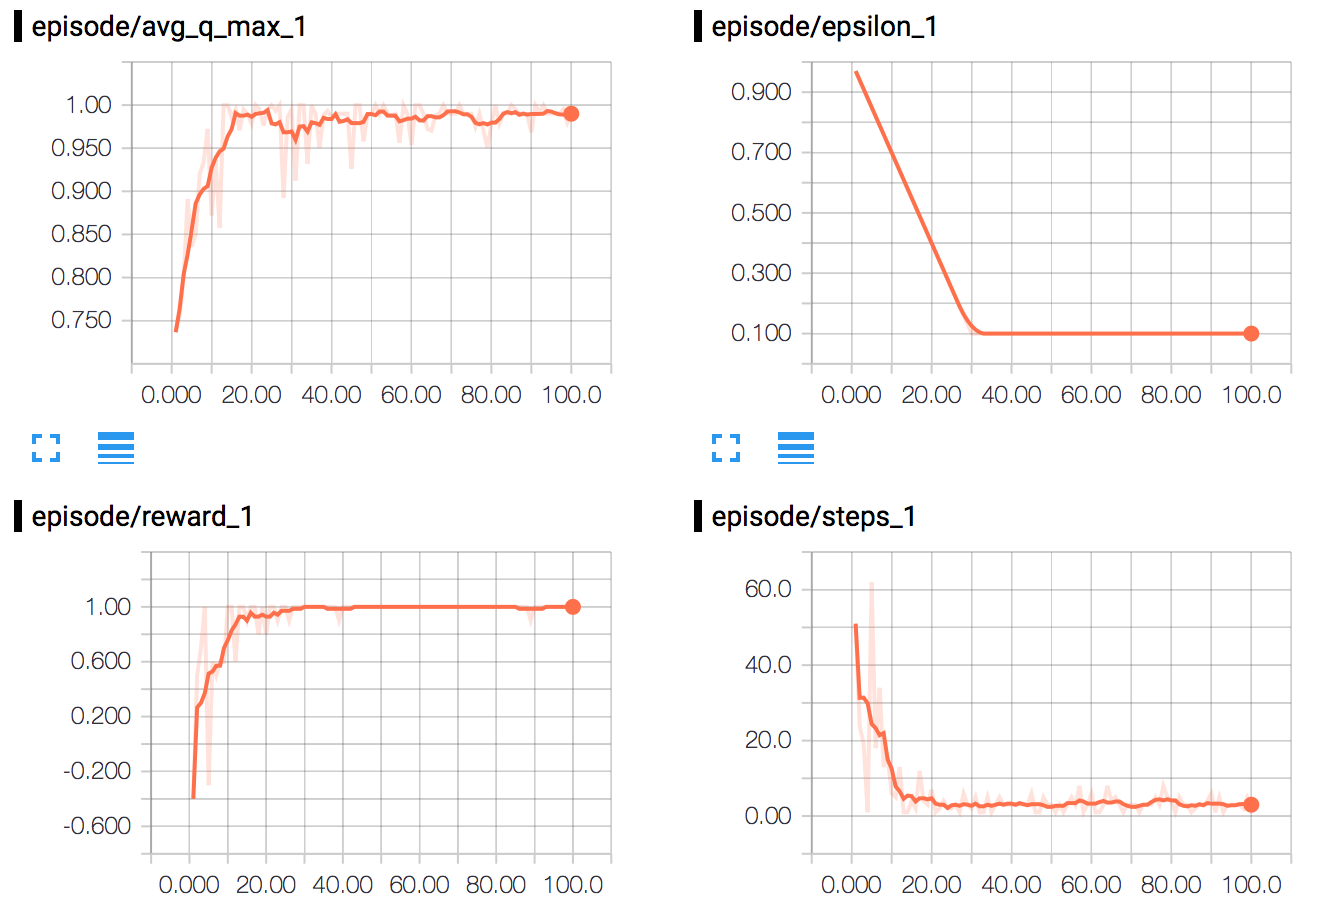
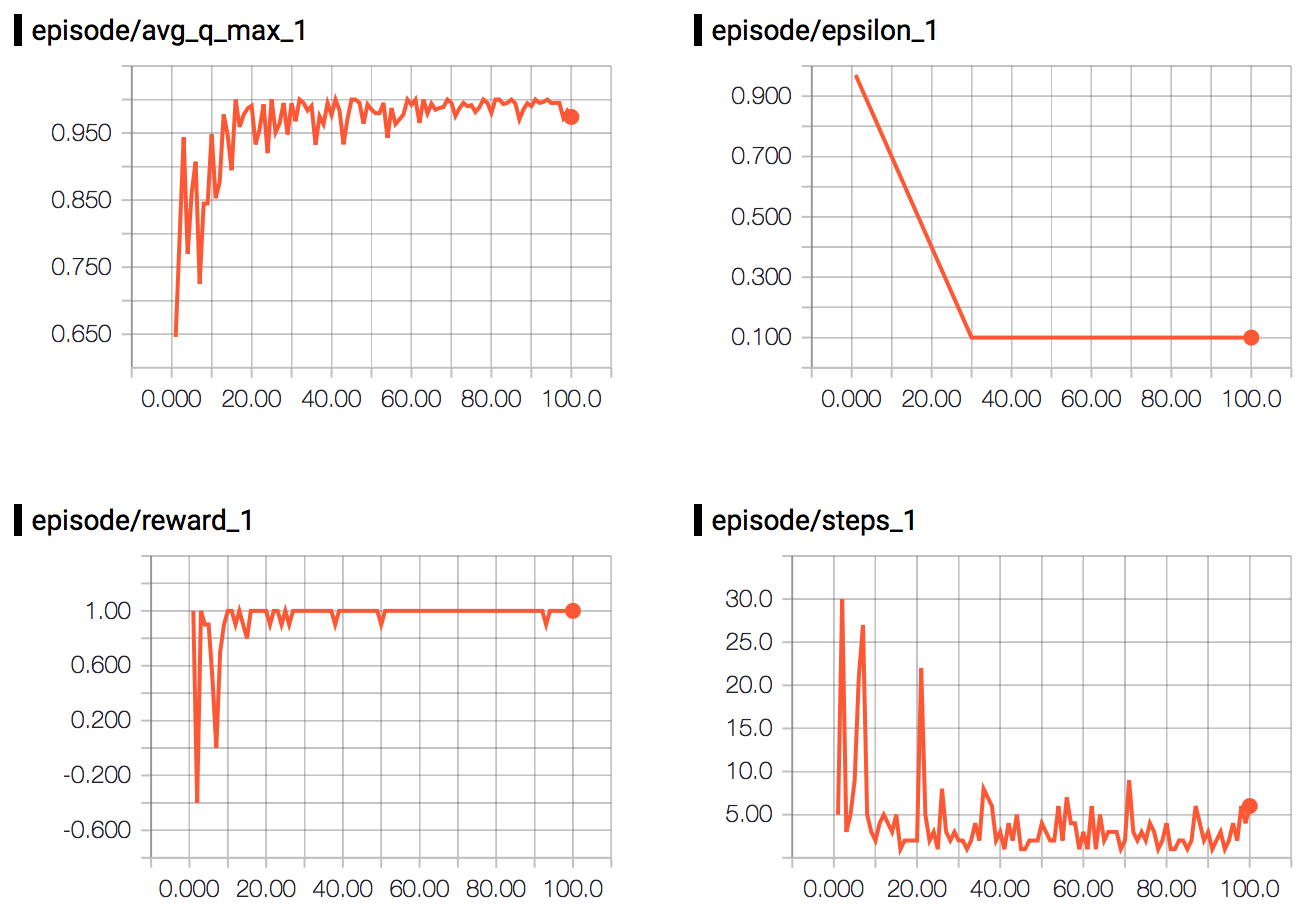
Update q-gridworld and nn-gridworld readmes

diff --git a/experiments/nn-gridworld/README.md b/experiments/nn-gridworld/README.md
@@ -3,9 +3,9 @@
   <img src="../../images/graphs/nn-graph.png", width="50%"/>
 </p>
 
-In comparison to the previous [Q-Gridworld](../q-gridworld) experiment, this experiment attempts to solve [Gridworld](../games/gridworld.py) using a Neural Network to estimate the Q-values instead of storing them in a table.
+In comparison to the [Q-Gridworld](../q-gridworld) experiment, we're now going train an agent to play [Gridworld](../games/gridworld.py) by utilizing a Neural Network instead of storing all Q-values in a table. By sending the state of the game as an input, the network will be trained to estimate the Q-values of that state.
 
-The state of the game is defined as three matricies of the field (```3 x [field_size, field_size]```) - one with the position of the actor, one with the position of the pit and one with the position of the goal.
+The state of the game is defined as three zero-filled matricies of the field (```3 x [field_size, field_size]```) where the coordinate of the actor, pit and the goal is marked by setting that element of the matrix to 1.
 
 At each step, the flattened state ```s``` (defined as a single row of size ```3 * field_size * field_size```) is fed into the Neural Network. The network then outputs a row of Q-values, each representing the values of the actions in the state ```s```. The  agent then performs an action according to its policy  ```π(s) = max(Q(s,a))``` or another random action given the exploration rate ```ε```.
 
@@ -14,20 +14,36 @@ Once the agent has taken its action, the Q-values of the next state ```s'``` are
 ## Network 
 
 The network in this experiment has two fixed hidden layers, but with customizable number of neurons in each hidden layers.
+Given the variables ```input_size``` and ```action_size```, the network structure can be described as:
 
-```
-input_size = 3*field_size*field_size
-action_size = 4 (up, down, left, right)
-```
+* ```input_size = 3 * field_size * field_size```
+* ```action_size = 4 (up, down, left, right)```
 
-| Input          | Hidden L1|Hidden L2   | Output          |
+<center>
+
+| Input          | Hidden L1| Hidden L2  | Output          |
 |----------------|----------|------------|-----------------|
-|```input_size```| 80 [C]   |80 [C]      |```action_size```|
+|```input_size```| 80 [c]   | 80 [c]     |```action_size```|
 
-[C] - Customizable
+</center>
+[c] - Customizable
 
 
 ## Performance
 
+<p align="center">
+  <img src="../../images/plots/nn-gridworld-plot.png", width="70%"/>
+</p>
+
+The plots above show the agents training progress running with all parameters set to their default values.
+As you can see in the plot, it took the agent around 300 episodes before it started learning, and around 500 and beyond really got the gist of it. The result of running 100 test runs with the fully trained agent can be seen in the table below.
+
+<center>
+
+|            | Average  |Max  | Min |
+|------------|----------|-----|-----|
+| **Steps**  | 3.26	    | 12  | 1   |
+| **Rewards**| 0.42     | 1   | 0.08|
 
 
+</center>

diff --git a/experiments/q-gridworld/README.md b/experiments/q-gridworld/README.md
@@ -2,19 +2,60 @@
 
 The purpose of this experiment is to show how a basic implementation of [Gridworld](../games/gridworld.py) could be solved with Q-Learning by storing and using all Q-values, _Q(s,a)_, in a table.
 
-For a nonterminal state, it uses the update function:
-``` 
-Q(s,a) ⟵ Q(s,a) + η(r + ɣmax(Q(s',a') - Q(s,a))
+With the available actions (```up, down, right, left```), the table of Q-value has the shape:
+
+<center>
+
 ```
-And for a terminal state:
-``` 
-Q(s,a) ⟵ r
+[[a_0,    a_1,    a_2,    a_3],      # s_0
+ [a_0,    a_1,    a_2,    a_3],      # s_1
+ [a_0,    a_1,    a_2,    a_3],      # s_2
+             ...                      ...
+ [a_0,    a_1,    a_2,    a_3]]      # s_n
 ```
 
-You'll notice when you play around with the parameters (more specifically the field size) that it will take longer and longer for the agent to perform be able to perform well. In these cases, it might be smart to move away from having to keep all the states and Q-values in the memory and approach this problem from a different angle. 
+</center>
 
-How about using a Neural Network? Take a look at [this example](../nn-gridworld)!
-## Plot
+Every time the agent performs an action and transitions from one state to another, the Q-value for the previous state and action taken will be updated using two different update functions depending on if it is a nonterminal (1) or a terminal (2) state.
+
+1. ``` Q(s,a) ⟵ Q(s,a) + η(r + ɣmax(Q(s',a') - Q(s,a)) ```. 
+2. ``` Q(s,a) ⟵ r```
+
+### Reward Function
+The agent can receive three different rewards.
+
+* ```+1``` for reaching the goal.
+* ```-1``` for reaching the pit.
+* ```-0.1``` for walking against the edges of the field (thus performing an action that doesn't move the agent).
+
+### Terminal states
+There are two different terminal states available.
+
+* Reaching the goal.
+* Reaching the pit.
+
+
+## Performance
 <p align="center">
   <img src="../../images/plots/q-gridworld-plot.png", width="70%"/>
 </p>
+
+
+The plots above show the agents training progress running with all parameters set to their default values.
+As you can see in the plot, it only took the agent around 15-20 episodes before it had learned to play well. The result of running 100 test runs with the fully trained agent can be seen in the table below.
+
+<center>
+
+|            | Average  |Max  | Min |
+|:-----------|:--------:|:---:|:---:|
+| **Steps**  | 2.84	    | 10  | 1   |
+| **Rewards**| 0.42     | 1   | 0.1 |
+
+
+</center>
+
+
+## Next step
+You'll notice when you play around with the parameters (more specifically the field size) that it will take longer and longer for the agent to perform be able to perform well. In these cases, it might be smart to move away from having to keep all the states and Q-values in the memory and approach this problem from a different angle. 
+
+How about using a Neural Network? Let's [give it a try](../nn-gridworld)!

diff --git a/experiments/rnn-gridworld/README.md b/experiments/rnn-gridworld/README.md
@@ -1,6 +1,8 @@
 # RNN-Gridworld Experiment
 
-
+<p align="center">
+  <img src="../../images/graphs/rnn-graph.png", width="50%"/>
+</p>
 
 
 ## Network 
@@ -18,7 +20,6 @@ action_size = 4 (up, down, left, right)
 
 [C] - Customizable
 
-## Graph
-<p align="center">
-  <img src="../../images/graphs/rnn-graph.png", width="50%"/>
-</p>
+## Performance
+
+
